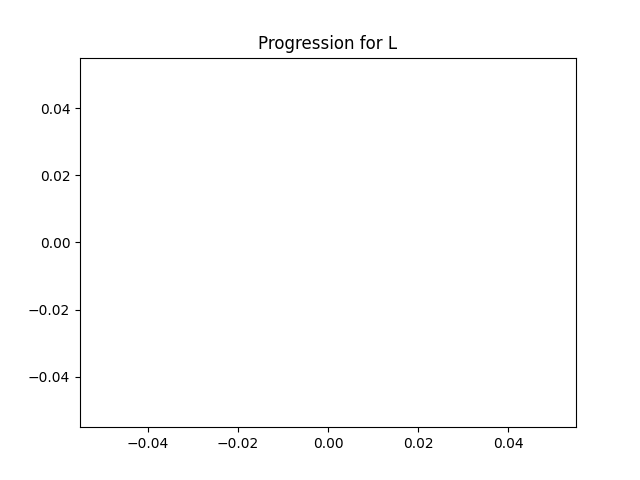
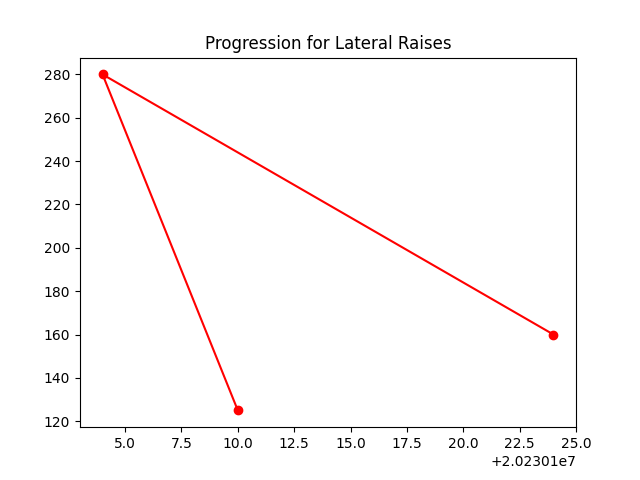
It's actually over

diff --git a/app.py b/app.py
@@ -1,7 +1,9 @@
+from turtle import color
 from flask import Flask, render_template, request, url_for,  redirect, abort, flash
 import sqlite3
 import db_manager
 import matplotlib.pyplot as plt
+from numpy import array, sort
 
 debugMode = True
 
@@ -104,7 +106,7 @@ def progress():
             x_data.append(row[0])
             y_data.append(row[2]*row[3])
         fig = plt.figure()
-        plt.plot(x_data, y_data)
+        plt.plot(x_data, y_data, marker="o", color="red")
         plt.title("Progression for " + str(exercise))
         plt.savefig("./static/plot.png", format="png")
         plt.close(fig)
